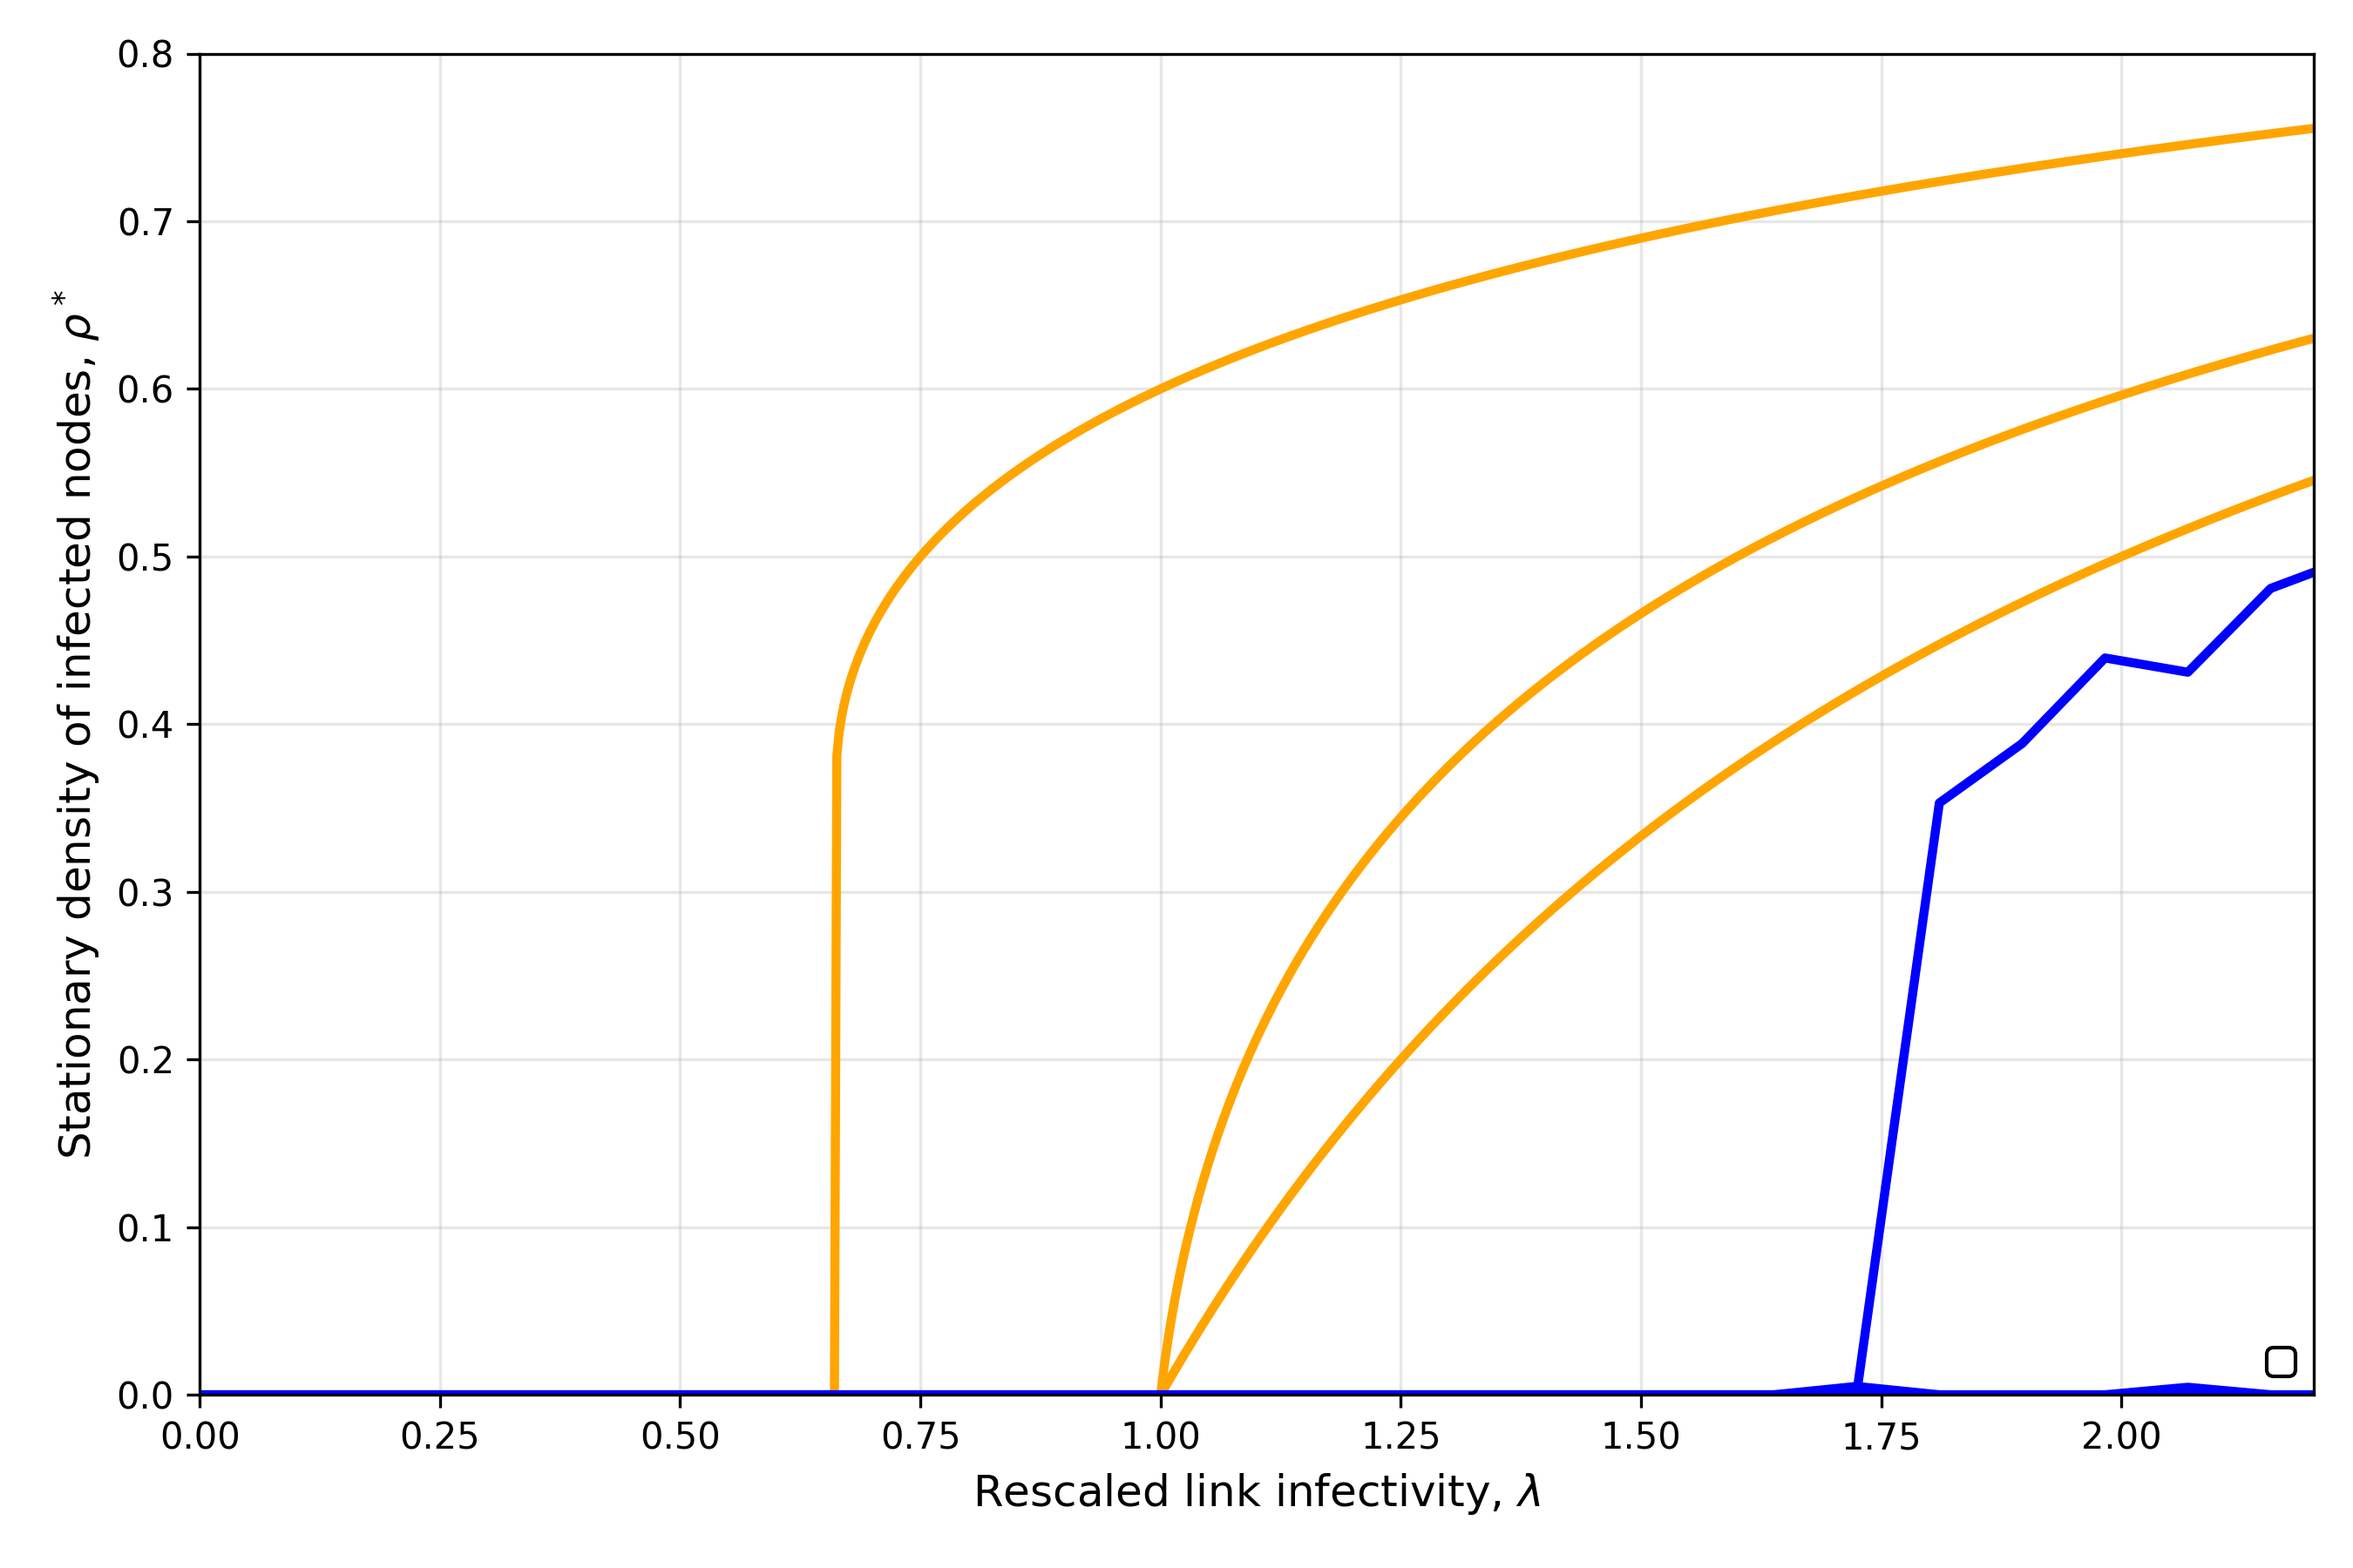
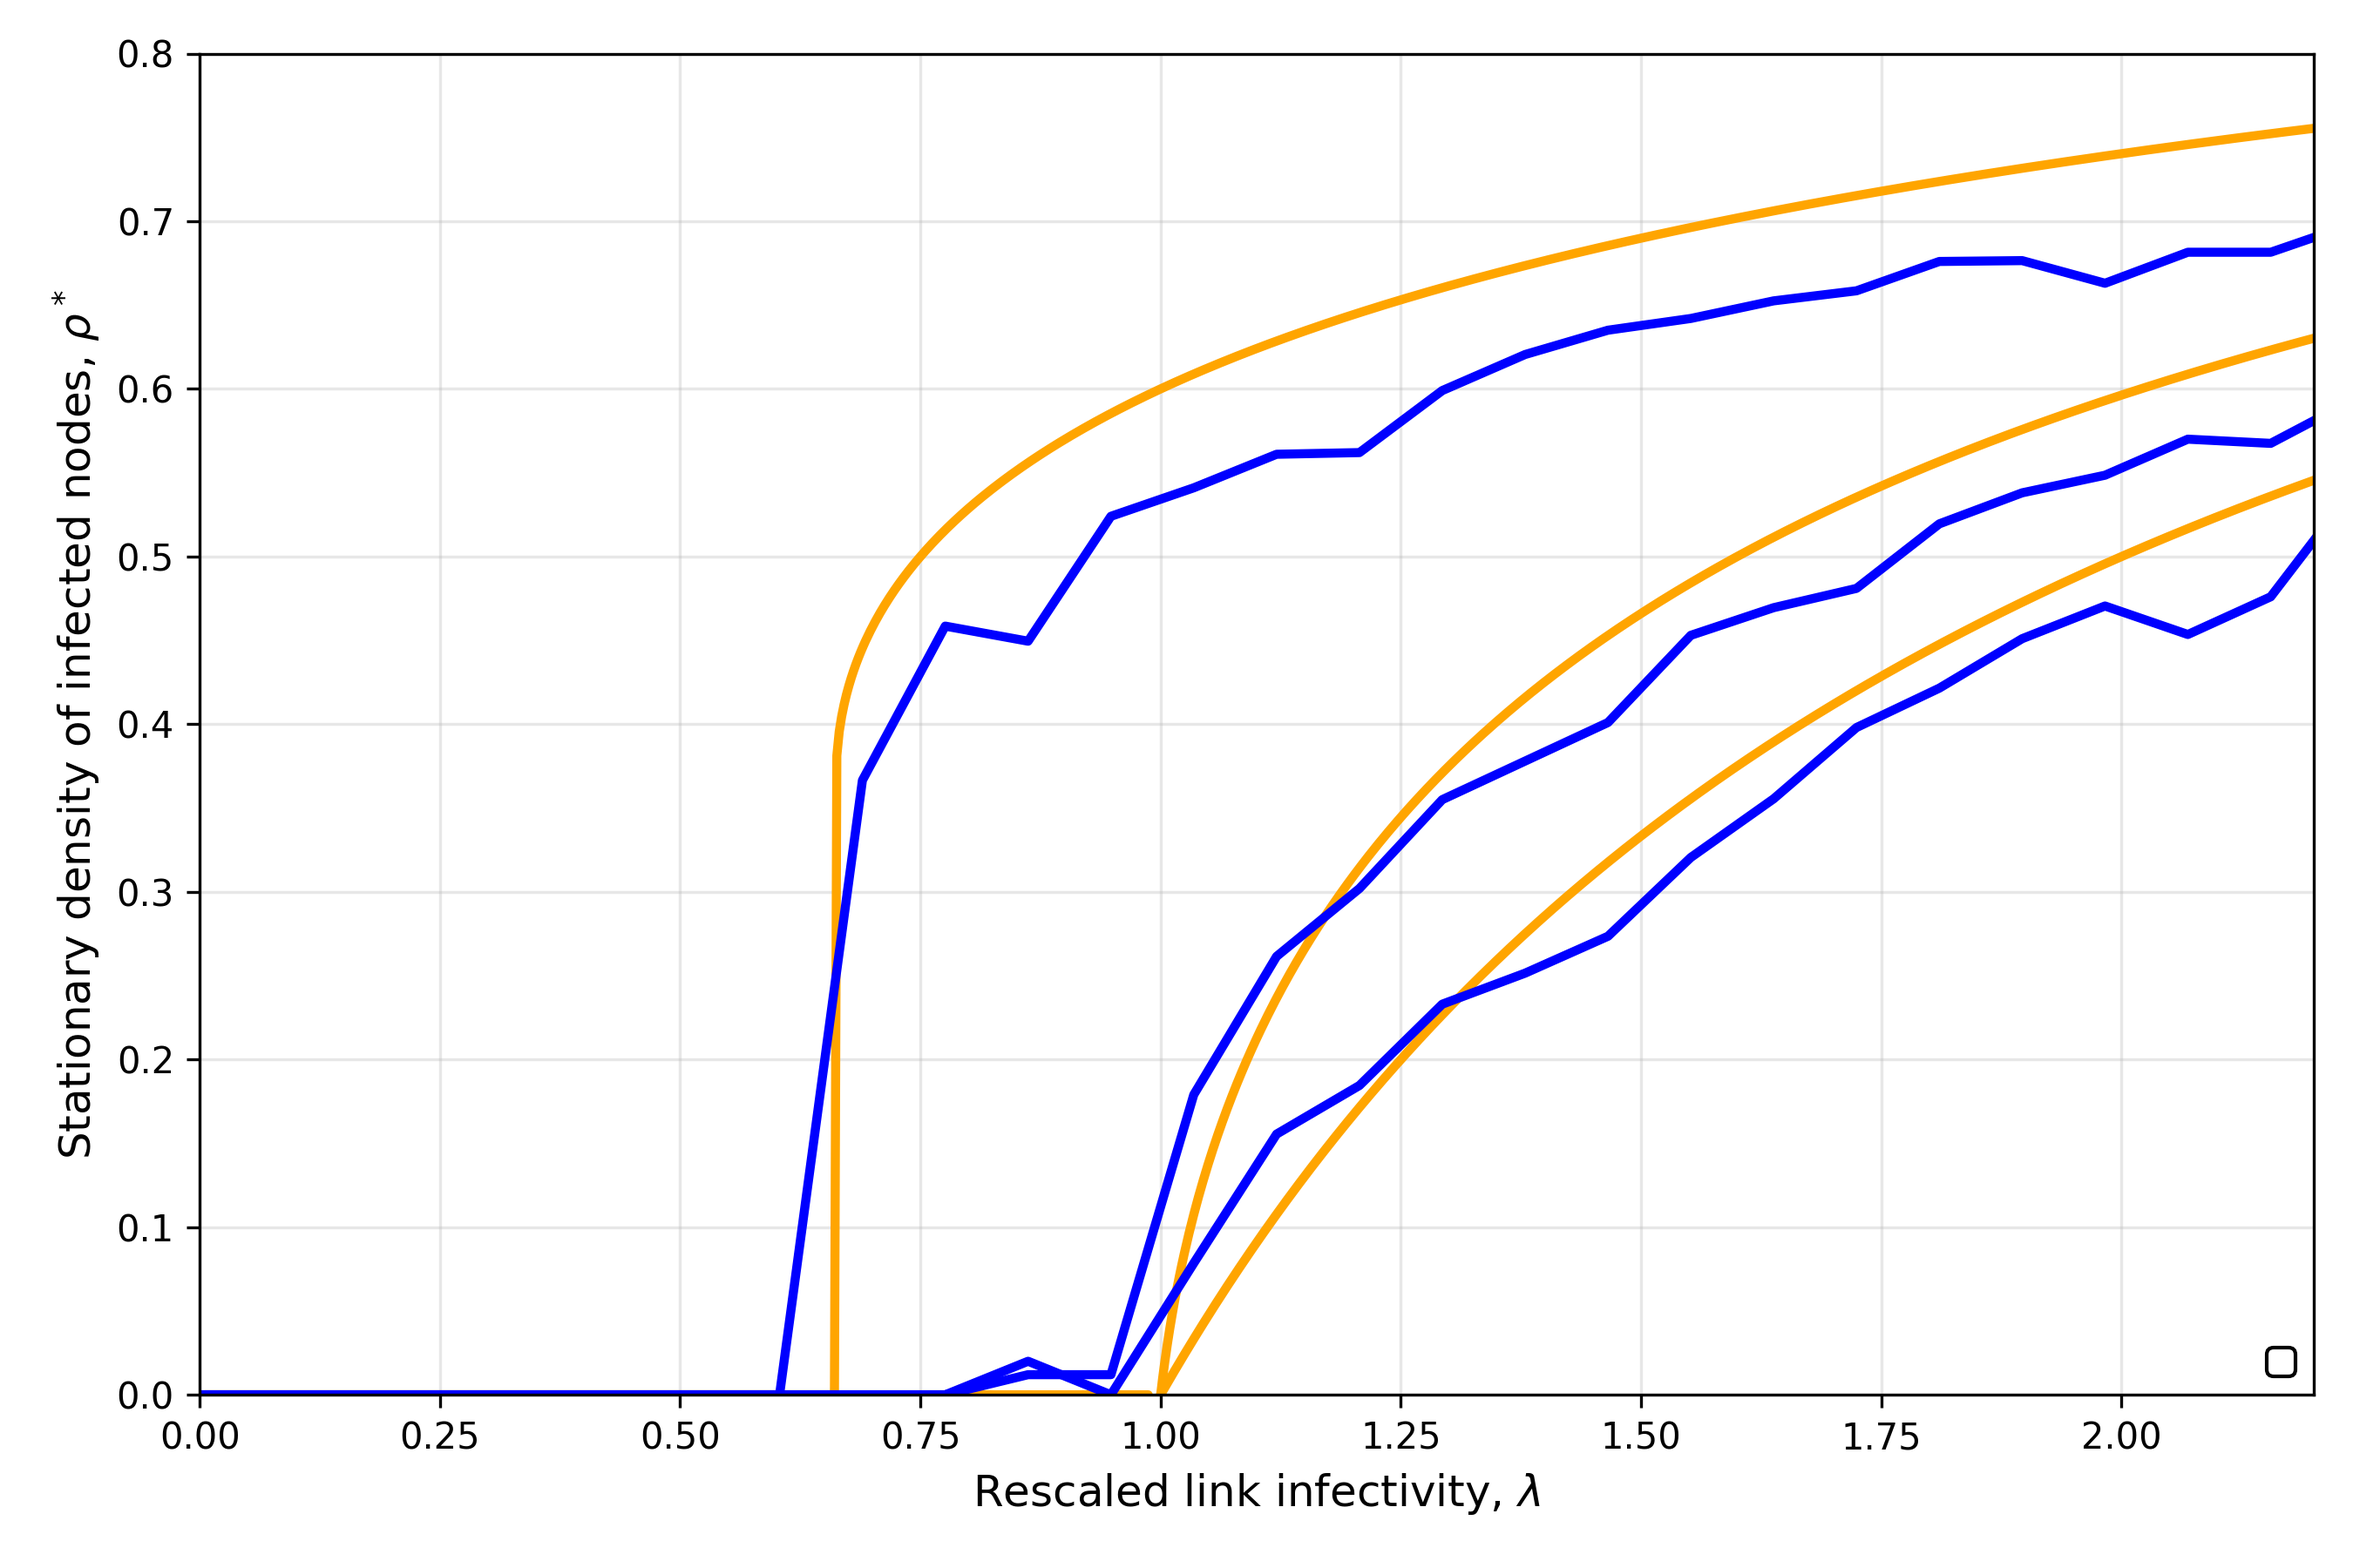
3a made successfully.. fixed random graph generation (forgetting to make 1 simplex edges when producing 2-simplex hyperedges)

diff --git a/modules.py b/modules.py
@@ -25,25 +25,24 @@ class RSCGenerator:
         self._generate_1_simplices()
         self._generate_2_simplices()
         return self.links, self.triangles
-        
+    
     def _generate_1_simplices(self):
         """edge sampling from binomial"""
         print(f"Sampling edges with p_1 = {self.p_1:.8f}")
         num_edges = np.random.binomial(math.comb(self.N, 2), self.p_1)
-        added_edges = set()
+        self.added_edges = set()
         
-        # Rejection sampling
         node_list = range(self.N)
-        while len(added_edges) < num_edges:
+        while len(self.added_edges) < num_edges:
             i, j = random.sample(node_list, 2)
             edge = (i, j) if i < j else (j, i)
             
-            if edge not in added_edges:
-                added_edges.add(edge)
+            if edge not in self.added_edges:
+                self.added_edges.add(edge)
                 self.links[i].append(j)
                 self.links[j].append(i)
             
-            print(f"\rEdges sampled: {len(added_edges)}/{num_edges}", end="")
+            print(f"\rEdges sampled: {len(self.added_edges)}/{num_edges}", end="")
         print()
 
     def _generate_2_simplices(self):
@@ -52,7 +51,6 @@ class RSCGenerator:
         num_triangles = np.random.binomial(math.comb(self.N, 3), self.p_delta)
         added_triangles = set()
         
-        # Rejection sampling
         node_list = range(self.N)
         while len(added_triangles) < num_triangles:
             nodes = tuple(sorted(random.sample(node_list, 3)))
@@ -62,10 +60,16 @@ class RSCGenerator:
                 self.triangles[i].append((j, k))
                 self.triangles[j].append((i, k))
                 self.triangles[k].append((i, j))
+                
+                for edge in [(i, j), (j, k), (i, k)]:
+                    if edge not in self.added_edges:
+                        self.added_edges.add(edge)
+                        self.links[edge[0]].append(edge[1])
+                        self.links[edge[1]].append(edge[0])
             
             print(f"\rTriangles sampled: {len(added_triangles)}/{num_triangles}", end="")
         print()
-
+        
 
 class RandomSeeding:
     def __init__(self, N, rho_0):
